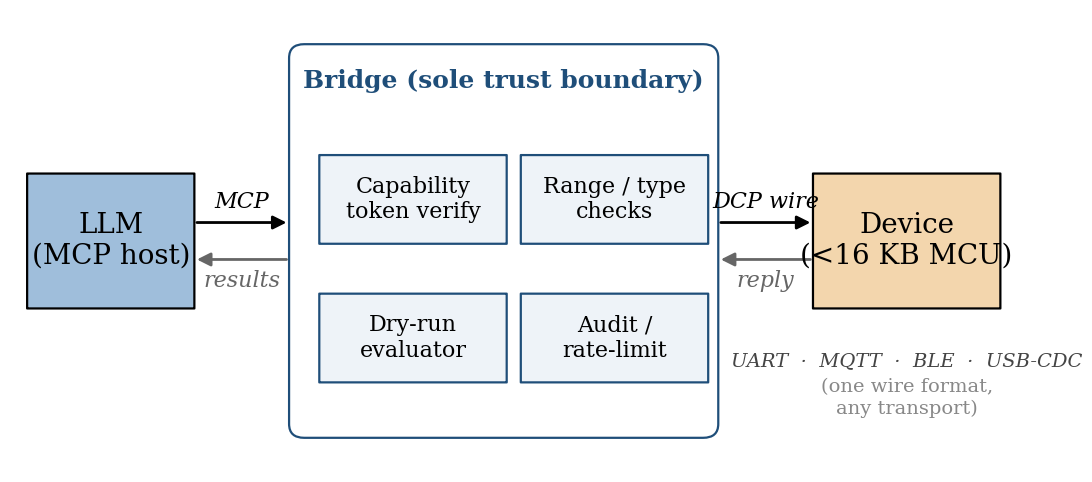
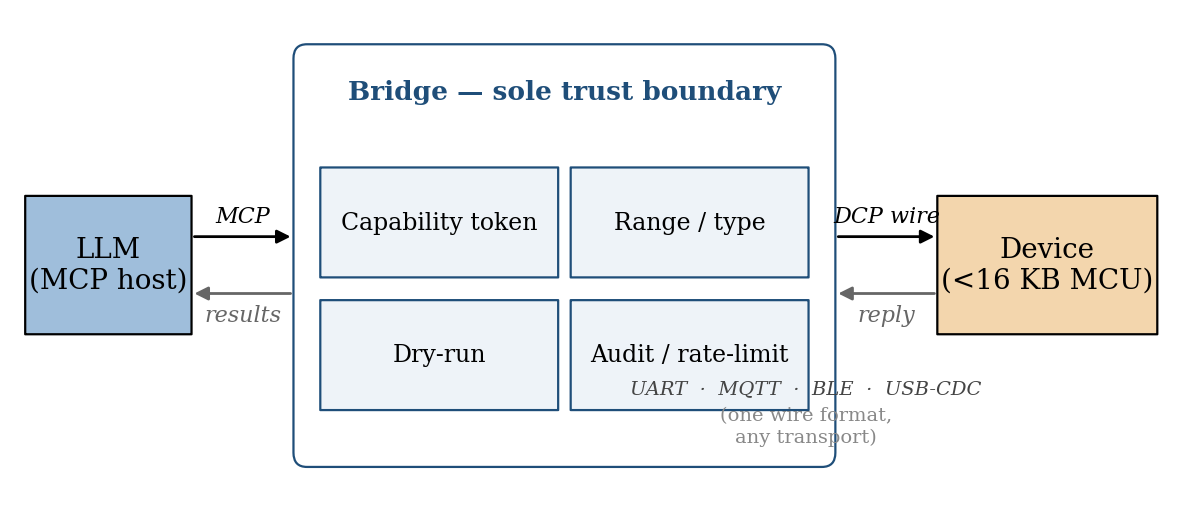
fig: widen architecture diagram, single-line cell labels (no overflow)

Changed region(s): [[0.0, 0.0622, 0.9963, 0.9336], [0.3114, 0.6535, 0.4359, 0.7469], [0.9029, 0.7158, 0.9963, 0.778]]

diff --git a/docs/paper/figures/make_figures.py b/docs/paper/figures/make_figures.py
@@ -80,8 +80,8 @@ def save(fig, name: str) -> None:
 # Figure 1 — Architecture.
 
 def fig_architecture():
-    fig, ax = plt.subplots(figsize=(6.5, 3.0))
-    ax.set_xlim(0, 100); ax.set_ylim(0, 50); ax.axis("off")
+    fig, ax = plt.subplots(figsize=(7.5, 3.2))
+    ax.set_xlim(0, 130); ax.set_ylim(0, 52); ax.axis("off")
 
     def box(x, y, w, h, label, facecolor, edgecolor="black", text_color="black",
             fontsize=9, rounded=0.02):
@@ -96,28 +96,28 @@ def fig_architecture():
                 fontsize=fontsize, color=text_color)
 
     # LLM
-    box(2, 18, 16, 14, "LLM\n(MCP host)", C["llm"], fontsize=10)
+    box(2, 18, 18, 14, "LLM\n(MCP host)", C["llm"], fontsize=10)
 
-    # Bridge outer
-    box(28, 4, 42, 42, "", "#ffffff", edgecolor=C["bridge_outer"], rounded=1.5)
-    ax.text(28 + 21, 41, "Bridge (sole trust boundary)",
-            ha="center", va="bottom", fontsize=9, color=C["bridge_outer"],
+    # Bridge outer — widened to comfortably hold 2x2 inner grid
+    box(32, 4, 60, 44, "", "#ffffff", edgecolor=C["bridge_outer"], rounded=1.5)
+    ax.text(32 + 30, 42, "Bridge — sole trust boundary",
+            ha="center", va="bottom", fontsize=9.5, color=C["bridge_outer"],
             fontweight="bold")
 
-    # Bridge inner components (2 x 2 grid)
-    inner_w, inner_h = 18, 9
+    # Bridge inner components (2 x 2 grid) — single-line labels, wider cells
+    inner_w, inner_h = 26, 11
     cells = [
-        (31, 25, "Capability\ntoken verify"),
-        (51, 25, "Range / type\nchecks"),
-        (31, 10, "Dry-run\nevaluator"),
-        (51, 10, "Audit /\nrate-limit"),
+        (35, 24, "Capability token"),
+        (63, 24, "Range / type"),
+        (35, 10, "Dry-run"),
+        (63, 10, "Audit / rate-limit"),
     ]
     for x, y, label in cells:
         box(x, y, inner_w, inner_h, label, C["bridge_inner"],
-            edgecolor=C["bridge_outer"], fontsize=8)
+            edgecolor=C["bridge_outer"], fontsize=8.5)
 
     # Device
-    box(80, 18, 18, 14, "Device\n(<16 KB MCU)", C["device"], fontsize=10)
+    box(104, 18, 24, 14, "Device\n(<16 KB MCU)", C["device"], fontsize=10)
 
     # Arrows.
     def arrow(x1, y1, x2, y2, label, dy_label=2, color="black"):
@@ -127,10 +127,10 @@ def fig_architecture():
         ax.text((x1 + x2) / 2, max(y1, y2) + dy_label, label,
                 ha="center", va="bottom", fontsize=8, color=color, style="italic")
 
-    arrow(18, 27, 28, 27, "MCP", dy_label=1)
-    arrow(28, 23, 18, 23, "results", dy_label=-3.5, color="#666666")
-    arrow(70, 27, 80, 27, "DCP wire", dy_label=1)
-    arrow(80, 23, 70, 23, "reply", dy_label=-3.5, color="#666666")
+    arrow(20, 28, 32, 28, "MCP",       dy_label=1)
+    arrow(32, 22, 20, 22, "results",   dy_label=-3.5, color="#666666")
+    arrow(92, 28, 104, 28, "DCP wire", dy_label=1)
+    arrow(104, 22, 92, 22, "reply",    dy_label=-3.5, color="#666666")
 
     # Transport bullets under device
     transports = "UART  ·  MQTT  ·  BLE  ·  USB-CDC"